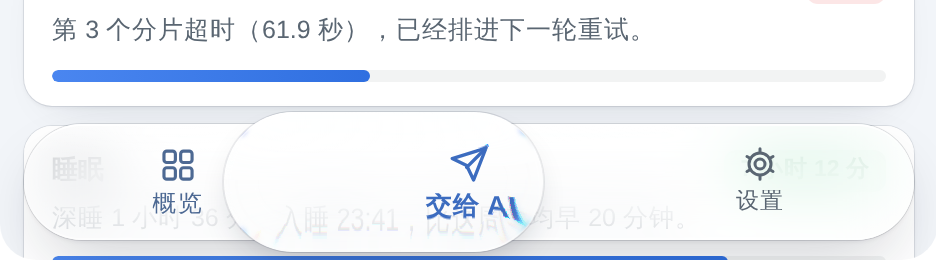
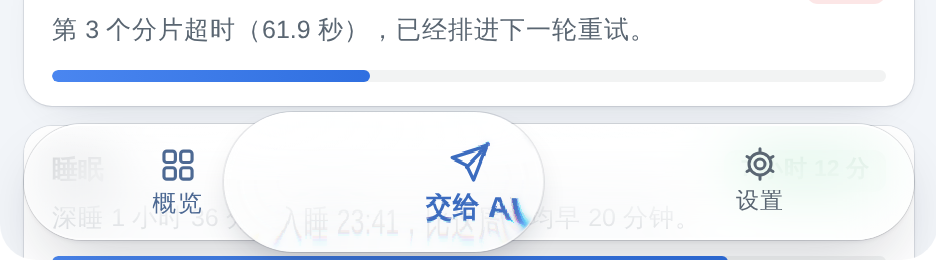
Moving lenses: convex profile to the centerline, no nested ellipses (v1.2.1)
The tab-bar lift lens and the hover lens still used the glass-plate
profile (bezel 0.6 of half-height for the lift lens, 12px for the hover
lens), leaving a flat middle: text there stayed unchanged while the rim
stretched it, which reads as two nested ellipses. ZeppBridge v3's map
generator uses exactly these plate numbers; shuding/liquid-glass scales
the whole area with smoothstep and has no flat plateau.

- Lift lens and hover lens use the convex lens profile (cubic, bezel to
  the centerline, depth 0.3 x bezel). Sampling depth is ~10.5px on the
  tab bar, so the bar's own edge is still skipped.
- Dispersion is blended in by 2m over the single-offset result, so the
  interior no longer gets red/cyan fringes on icons and text.
- The "use refraction" weight slope is max(12, 4 x depth): the original
  is used only where the offset is under a quarter pixel, removing the
  faint ghost ring deep lenses had.
- shoot.mjs: hold the tab bar and diff refraction on/off in the bands
  0.12-0.19h around the centerline (flat before, 5-11% bending now).
- Docs: principles 4.3/4.6/4.7, pitfalls #44, design-decisions round 15,
  design-spec params; version 1.2.1.

Claude-Session: https://claude.ai/code/session_01799g3ytQ6zM6MCw6832bw6

Changed region(s): [[0.4338, 0.7385, 0.5887, 0.8615], [0.4647, 0.5538, 0.5267, 0.6154]]

diff --git a/liquid-glass-ui/assets/liquid-glass.js b/liquid-glass-ui/assets/liquid-glass.js
@@ -1,5 +1,5 @@
 /*!
- * Liquid Glass UI —— 交互层 v1.2.0
+ * Liquid Glass UI —— 交互层 v1.2.1
  *
  * 只管「看着像玻璃、摸着像水」，不碰业务：不发请求、不改表单、不改页面元素的 class。
  * 删掉这个 <script>，页面照样能用——liquid-glass.css 里有不带脚本的退路。
@@ -54,7 +54,7 @@
    */
   function inert() {
     var self = {
-      version: '1.2.0', supported: false,
+      version: '1.2.1', supported: false,
       init: function () { return self; }, mode: function () { return 'off'; }, tier: function () { return 'l0'; },
       setMode: function () {}, refresh: function () {}, describe: function () { return ''; }, notify: function () {}
     };
@@ -414,7 +414,8 @@
   /**
    * 一块玻璃的滤镜。disp > 0 时红绿蓝三路分开位移（色散），否则一路。
    *   位移图：透明的 128 底 + 九宫格八块（贴图没加载出来时那一块是透明的，m = 0，用原图——绝不会整片错位）
-   *   → 位移（放大）→ 按 m^1.6 叠一层模糊 → 按 m 叠一层乳白 → 只在 m 明显的地方用（m × 12 截到 1）→ 按形状裁 → 垫在原图上面
+   *   → 位移（放大；色散按 2m 叠上）→ 按 m^1.6 叠一层模糊 → 按 m 叠一层乳白
+   *   → 只在位移超过 1/4 像素的地方用（m × max(12, 4 × 最外缘位移) 截到 1）→ 按形状裁 → 垫在原图上面
    * color-interpolation-filters 必须是 sRGB（缺省的线性 RGB 会把 128 算成 55 左右，整片往一边偏）；
    * 滤镜区域用缺省值（写 userSpaceOnUse 加 x/y 坐标原点会跑掉）。
    * 乳白的颜色走令牌 --lg-scatter：深色底上同样的白要淡一半，不然边上一圈发灰。
@@ -422,7 +423,7 @@
   function newFilter(disp) {
     var id = 'lgf-' + (++filterSeq), i;
     var f = svgEl('filter', { id: id, 'color-interpolation-filters': 'sRGB' });
-    var F = { id: id, node: f, disp: disp, parts: {}, dm: [], soft: null, veil: null, sig: '' };
+    var F = { id: id, node: f, disp: disp, parts: {}, dm: [], soft: null, veil: null, rim: null, sig: '' };
     function fe(name, attrs) { return f.appendChild(svgEl(name, attrs)); }
     function merge(result, ins) {
       var m = fe('feMerge', result ? { result: result } : {});
@@ -446,11 +447,18 @@
         fe('feColorMatrix', { 'in': 'd' + ch, type: 'matrix', values: ONLY[ch], result: 'c' + ch });
       }
       fe('feComposite', { 'in': 'cR', in2: 'cG', operator: 'arithmetic', k1: '0', k2: '1', k3: '1', k4: '0', result: 'rg' });
-      fe('feComposite', { 'in': 'rg', in2: 'cB', operator: 'arithmetic', k1: '0', k2: '1', k3: '1', k4: '0', result: 'sharp' });
+      fe('feComposite', { 'in': 'rg', in2: 'cB', operator: 'arithmetic', k1: '0', k2: '1', k3: '1', k4: '0', result: 'rgb' });
     } else {
       F.dm.push(fe('feDisplacementMap', { 'in': 'SourceGraphic', in2: 'map', scale: '0', xChannelSelector: 'R', yChannelSelector: 'G', result: 'sharp' }));
     }
     fe('feColorMatrix', { 'in': 'map', type: 'matrix', values: '0 0 0 0 0  0 0 0 0 0  0 0 0 0 0  0 0 1 0 0', result: 'm' });
+    if (disp) {
+      // 色散只在边上：三路分开的那份按 2m（截到 1）叠在绿路那份（三路同一位移）上面。里面位移不大时三路
+      // 各自取整到不同像素，字和图标的边会泛红泛青；透镜剖面一直伸到中线时这层彩边会铺满整片。
+      alpha('m', 'dw', { type: 'linear', slope: '2', intercept: '0' });
+      fe('feComposite', { 'in': 'rgb', in2: 'dw', operator: 'in', result: 'rgbIn' });
+      merge('sharp', ['dG', 'rgbIn']);
+    }
     F.soft = fe('feGaussianBlur', { 'in': 'sharp', stdDeviation: '0.5', result: 'soft' });
     alpha('m', 'bw', { type: 'gamma', amplitude: '1', exponent: '1.6', offset: '0' });
     fe('feComposite', { 'in': 'soft', in2: 'bw', operator: 'in', result: 'softIn' });
@@ -460,7 +468,7 @@
     F.veil = alpha('m', 'vw', { type: 'linear', slope: '0.05', intercept: '0' });
     fe('feComposite', { 'in': 'white', in2: 'vw', operator: 'in', result: 'veil' });
     merge('glowed', ['lensed', 'veil']);
-    alpha('m', 'rw', { type: 'linear', slope: '12', intercept: '0' });
+    F.rim = alpha('m', 'rw', { type: 'linear', slope: '12', intercept: '0' });
     fe('feComposite', { 'in': 'glowed', in2: 'rw', operator: 'in', result: 'rim' });
     fe('feComposite', { 'in': 'rim', in2: 'map', operator: 'in', result: 'shaped' });
     merge('', ['SourceGraphic', 'shaped']);
@@ -508,6 +516,9 @@
     } else { F.dm[0].setAttribute('scale', s.toFixed(2)); }
     F.soft.setAttribute('stdDeviation', Math.max(0.5, blur).toFixed(2));
     F.veil.setAttribute('slope', String(scat));
+    // 位移不到 1/4 像素就用原图（中间一个像素都不重采样）。固定 ×12 时，深的透镜在位移已近 1px 的地方还在
+    // 把原图和折射结果对半掺，掺到哪儿算哪儿——那一圈是看得出来的。
+    F.rim.setAttribute('slope', Math.max(12, 4 * depth).toFixed(1));
   }
 
   /**
@@ -973,8 +984,9 @@
     if (!L.F) { L.F = newFilter(0.06); L.ref.style.setProperty('--lg-ref', 'url(#' + L.F.id + ')'); }
     var w = Math.round(L.pw != null ? L.pw : L.w), h = Math.round(L.ph != null ? L.ph : L.h);   // 画出来的尺寸（可能被关进滚动范围时收过）
     if (w < 8 || h < 8) { return; }
-    var r = L.rad != null ? Math.min(L.rad, h / 2) : h / 2, bez = Math.min(12, h * 0.32);
-    setGeom(L.F, w, h, r, { bezel: bez, depth: bez * K, blur: Math.max(0.5, h * 0.02), disp: 0.06, scatter: 0.05 });
+    // 凸透镜剖面（斜面到中线、三次方）：会动的一小颗玻璃整块连续地弯，没有「外圈弯、内圈平」的接缝；字在正中，照样清楚
+    var r = L.rad != null ? Math.min(L.rad, h / 2) : h / 2;
+    setGeom(L.F, w, h, r, { bezel: h / 2, power: 3, blur: Math.max(0.5, h * 0.02), disp: 0.06, scatter: 0.05 });
   }
 
   /** 透镜底下是不是指针（不是键盘）：整行的指尖光只在指针在的时候亮 */
@@ -1318,9 +1330,10 @@
     Z.el.style.width = L.w + 'px';
     Z.el.style.height = L.h + 'px';
     Z.el.style.transform = 'translate3d(' + L.x.toFixed(2) + 'px,' + L.y.toFixed(2) + 'px,0)';
-    // 透镜：斜面占半高的六成，正中约四成高原样透出；色散比面板略重（字就在它底下）
-    var bez = 0.3 * L.h;
-    setGeom(Z.F, L.w, L.h, L.h / 2, { bezel: bez, depth: bez * K, blur: Math.max(0.5, L.h * 0.024), disp: 0.1, scatter: 0.06 });
+    // 透镜：凸透镜剖面——斜面一直到中线、三次方（data-lg-refract="lens" 同一条），整块连续地弯。
+    // 以前斜面只占半高的六成、正中四成原样透出，停在两项之间时边上的字被拉开、中间一块不动，看着是两个椭圆套在一起。
+    // 最外缘只往里取 0.3 × 半高（约 10px），整条导航条自己的边（离透镜的边约 6px）采不到，不会被放大成一道彩边；色散比面板略重
+    setGeom(Z.F, L.w, L.h, L.h / 2, { bezel: L.h / 2, power: 3, blur: Math.max(0.5, L.h * 0.024), disp: 0.1, scatter: 0.06 });
     Z.ref.style.opacity = clamp((up - 0.15) / 0.6, 0, 1).toFixed(3);
     // 边：从平胶囊的大小长到透镜的大小（浮起的回弹让它略大一点再收回），很快淡入
     var rx = w / L.w + (1 - w / L.w) * up, ry = h / L.h + (1 - h / L.h) * up;
@@ -1872,7 +1885,7 @@
   }
 
   var api = win.LiquidGlass = {
-    version: '1.2.0',
+    version: '1.2.1',
     /** true：真的在跑；false：服务端渲染、太老的浏览器拿到的替身 */
     supported: true,
     /** 换配置（同 window.LiquidGlassConfig 的选项），返回 LiquidGlass 本身 */

diff --git a/liquid-glass-ui/assets/liquid-glass.css b/liquid-glass-ui/assets/liquid-glass.css
@@ -1,5 +1,5 @@
 /*!
- * Liquid Glass UI —— 样式 v1.2.0
+ * Liquid Glass UI —— 样式 v1.2.1
  *
  * 一套照 Apple Liquid Glass 做的网页材质与组件：控制层（侧栏、页头胶囊、弹出层、工具条、提示）是玻璃，
  * 内容层（卡片、表格）是不透光的「实心厚玻璃」。动效与折射由同目录的 liquid-glass.js 驱动，

diff --git a/liquid-glass-ui/references/principles.md b/liquid-glass-ui/references/principles.md
@@ -101,7 +101,7 @@ D(s) = K · b · (1 − s/b)²      K = 0.45；s ≥ b 时 D = 0
 - **处处 1 + D′ > 0，不折叠**：同一段内容只出现一次，边上不会有重影和镜像。（`scripts/displacement_map.py --selftest` 验的就是这一条。）
 - 方向是外法线的反方向（往里）。圆角处法线从圆心指出去，所以圆角里的内容顺着圆弧弯。
 
-**凸透镜形态**（`data-lg-refract="lens"`，演示页那块可以拖的玻璃）：小块的玻璃按上面的「玻璃板」做，边宽只占半高的一半，
+**凸透镜形态**（`data-lg-refract="lens"`，演示页那块可以拖的玻璃；悬停透镜、分段开关浮起的透镜也用它）：小块的玻璃按上面的「玻璃板」做，边宽只占半高的一半，
 中间一大块是平的——外圈在弯、里面一块原样，看着像**两个椭圆叠在一起**，接缝就在边宽那一圈（放大率在那儿从 1 开始按定值往上爬，
 第一行字上半截被拉长、下半截原样）。凸透镜形态把斜面一直延伸到中线（b = 短边 / 2），剖面换成三次：
 
@@ -112,10 +112,18 @@ D(s) = (2K/3) · b · (1 − s/b)³      最外缘 1 + D′ = 1 − 0.9 = 0.1（
 三次剖面在中线处位移、放大率的增量、放大率的变化率都是 0——变形从中线平滑地长出来，整块是一个连续弯曲的凸透镜，
 中线附近一条带肉眼看不出变化（字照样清楚）。一般地剖面写成 m = (1 − s/b)^p、最外缘位移 (2K/p)·b，p = 2 是玻璃板，p = 3 是凸透镜。
 
-**为什么不把所有玻璃都换成三次剖面**：试过。三次剖面的取样深度浅（最外缘只往里取 0.3 × 边宽，平方是 0.45），
-分段开关浮起的透镜比那一行高两成、上下各伸出 6px 左右，三次剖面正好采到整条导航条自己的边线，把它放大成透镜上沿一道很扎眼的彩虹条；
-平方剖面往里取 9.5px，正好跳过那道边。面板、菜单这类大块玻璃中间本来就该是平的（iOS 26 也是边上弯、正中清楚）。
-所以只给「一小块独立的玻璃」用凸透镜，其余照旧。
+**哪些玻璃用凸透镜**：一小块独立的、会动的玻璃——可拖的水滴、悬停透镜、分段开关浮起的透镜。它们本身就是「一颗透镜」，
+中间留一块平的，眼睛立刻看出「外面一圈在弯、里面一块原样」的接缝（见 pitfalls 43、44）。面板、菜单这类大块玻璃照旧用玻璃板：
+中间本来就该是平的（iOS 26 的大玻璃也是边上弯、正中清楚），整块都弯反而看着晃。
+
+**边宽必须到中线**：三次剖面同样的边宽取样深度浅（最外缘往里 0.3 × 边宽，平方是 0.45）。试过「三次方、边宽还是半高的六成」：
+浮起的透镜最外缘只往里取 6px，正好采到整条导航条自己的边线（透镜比那一行高两成、上下各伸出 6px 左右），放大成透镜上沿一道彩虹条。
+边宽到中线以后最外缘往里取 0.15 × 高（导航条上约 10.5px），跳过那道边。
+
+**对照过的开源实现**：ZeppBridge v3 的 `scripts/assets/build-glass-lens-maps.py` 和本套件的玻璃板一模一样——平方剖面、
+浮起的透镜斜面占半高的六成、位移 0.45 × 斜面，正中约四成高是平的——同一条剖面，数学上同一条接缝，照抄它的参数去不掉这个问题。
+shuding/liquid-glass 的片元着色器是另一条路：整块按到边的距离用两层 `smoothStep` 把取样坐标往中心缩放，**没有平的一块**，
+变形从中心连续长到边上。凸透镜形态就是这个思路的位移贴图版：剖面到中线、在中线处平滑地从 0 长出来。
 
 **为什么不按斯涅尔定律算**（上一版的做法：凸超椭圆剖面 + 斯涅尔定律 + 恒定厚度，kube.io 那篇文章的思路）：
 算出来的位移全挤在最外两三个像素里，而且在那儿 D′ < −1——**贴图折叠了**。边宽 18、隆起 16、厚度 8 时，
@@ -159,20 +167,25 @@ D(s) = (2K/3) · b · (1 − s/b)³      最外缘 1 + D′ = 1 − 0.9 = 0.1（
   <!-- 放大：红绿蓝三路，红多折 8%、蓝少折 8%（色散），各留一个通道再加回一张 -->
   <feDisplacementMap in="SourceGraphic" in2="map" scale="S×1.08" xChannelSelector="R" yChannelSelector="G" result="dR"/>
   <feColorMatrix in="dR" values="只留红" result="cR"/>   …绿、蓝同理…
-  <feComposite operator="arithmetic" k2="1" k3="1" …/> ×2                       → sharp
+  <feComposite operator="arithmetic" k2="1" k3="1" …/> ×2                       → rgb
 
   <feColorMatrix in="map" values="B → 透明度" result="m"/>
+  <!-- 色散只在边上：rgb 按 2m（截到 1）叠在绿路那份（三路同一位移，dG）上面 -->
+  <feFuncA linear slope="2"/> + <feComposite in="rgb" operator="in"/> + <feMerge> dG + rgbIn </feMerge> → sharp
   <!-- 模糊：糊过的那份按 m^1.6 叠上去（集中在最外缘，不在里面留一圈发白的环） -->
   <feGaussianBlur in="sharp" result="soft"/>  + feFuncA gamma 1.6 + feComposite in   → lensed
   <!-- 散射：一层乳白按 m × 0.05 叠上去；颜色走令牌 --lg-scatter（深色底上淡一半） -->
   <feFlood style="flood-color: var(--lg-scatter)"/> + feFuncA linear + feComposite in → glowed
-  <!-- 只在 m 明显的地方用折射结果（m × 12 截到 1）；按形状裁；垫在原图上面 -->
+  <!-- 只在位移超过 1/4 像素的地方用折射结果（m × max(12, 4 × 最外缘位移) 截到 1）；按形状裁；垫在原图上面 -->
   <feComposite in="glowed" in2="rw" operator="in"/> → <feComposite in2="map" operator="in"/>
   <feMerge><feMergeNode in="SourceGraphic"/><feMergeNode in="shaped"/></feMerge>
 </filter>
 ```
 
-- **中间一个像素都不重采样**：位移不到最大值十二分之一的地方直接是原图。`scripts/shoot.mjs` 的折射校验把折射那一步换成
+- **中间一个像素都不重采样**：位移不到 1/4 像素的地方直接是原图（斜率 `max(12, 4 × 最外缘位移)`，`setGeom` 里按位移算）。
+  以前固定 ×12：深的透镜（最外缘 10px）在位移已近 1px 的地方还在把原图和折射结果对半掺，掺出一圈淡淡的重影。
+- **色散只在边上**：三路位移各自取整到不同的像素，位移不大的地方字和图标的边也会泛红泛青；剖面伸到中线时这层彩边铺满整块。
+  所以三路分开的那份只按 2m 叠上去，往里换成三路同一位移的那份。`scripts/shoot.mjs` 的折射校验把折射那一步换成
   `blur(0px)` 前后各拍一张，核对玻璃正中逐像素一样、外圈确实在弯。
 - **贴图缺了不会错位**：底是透明的 128，缺哪一块那一块 m = 0，用原图。
 - **边上的模糊顺带把锯齿抹掉**：位移滤镜是最近邻取样，边上拉开十倍，不糊一下就是一级级台阶。
@@ -190,11 +203,12 @@ D(s) = (2K/3) · b · (1 − s/b)³      最外缘 1 + D′ = 1 − 0.9 = 0.1（
 | 底部保存条 | 14 | 6 | 0.08 | 0.05 | 0.8 |
 | `data-lg-refract` 不给值 | 短边 × 0.2，夹在 10–24 | 0.45 × 边宽 | 0.08 | 0.05 | 边宽 × 0.06 |
 | `data-lg-refract="lens"`（凸透镜，三次剖面） | 短边 / 2（到中线） | 0.3 × 边宽 | 0.08 | 0.05 | 边宽 × 0.06 |
-| 悬停透镜（停稳时） | min(12, 高 × 0.32) | 0.45 × 边宽 | 0.06 | 0.05 | 高 × 0.02 |
-| 分段开关浮起的透镜（§8.1） | 高 × 0.3（半高的六成） | 0.45 × 边宽 | 0.1 | 0.06 | 高 × 0.024 |
+| 悬停透镜（停稳时，凸透镜） | 高 / 2（到中线） | 0.3 × 边宽 | 0.06 | 0.05 | 高 × 0.02 |
+| 分段开关浮起的透镜（§8.1，凸透镜） | 高 / 2（到中线） | 0.3 × 边宽 | 0.1 | 0.06 | 高 × 0.024 |
 
-最外缘位移缺省都是 0.45 × 边宽（就是 K）；面板越大，边越宽、折得越多；小控件边要窄，不然整颗都在弯、字看着晃。
-浮起的透镜斜面占半高的六成，正中约四成高原样透出——字就在它底下，色散也略重一点。
+玻璃板的最外缘位移缺省 0.45 × 边宽（就是 K），凸透镜 0.3 × 边宽（2K/3，最外缘一样放大约十倍）。面板越大，边越宽、折得越多；
+面板和菜单边要窄，不然整块都在弯、字看着晃。悬停透镜和浮起的透镜反过来：它们本身就是一颗透镜，整颗连续地弯、中线原样，
+字就在它底下被一点点放大；浮起的透镜色散也略重一点。
 
 ### 4.8 什么时候摆、什么时候撤
 

diff --git a/liquid-glass-ui/SKILL.md b/liquid-glass-ui/SKILL.md
@@ -55,7 +55,7 @@ description: >-
 1. 引入，按项目的形态选一种（`references/integration.md` §1）：
    - **普通页面 / 服务端模板**：把 `assets/liquid-glass.css`、`assets/liquid-glass.js` 拷进项目静态目录（保留文件头注释），
      `<head>` 里一个 `<link>`、一个 `<script>`——脚本放 `<head>` 时自己会在页面画出来之前写好档位，不用再加内联脚本。
-   - **有打包工具的前端工程**（Vite、webpack、Next.js、Nuxt）：`npm i github:decli/LiquidGlassUI#v1.2.0`（用户能访问这个仓库时），
+   - **有打包工具的前端工程**（Vite、webpack、Next.js、Nuxt）：`npm i github:decli/LiquidGlassUI#v1.2.1`（用户能访问这个仓库时），
      入口里 `import 'liquid-glass-ui/liquid-glass.css'` + `import LiquidGlass from 'liquid-glass-ui'`；访问不了就把 assets 下四个文件拷进项目，
      照样 import 相对路径。要改配置在 import 之后调 `LiquidGlass.init({ … })`。服务端渲染时 import 不会报错，不用 `typeof window` 判断。
 2. 不要在组件里初始化、也不要在路由切换后调什么：脚本用 `MutationObserver` 自己发现变化。`init()` 整页一份，只在启动时调。

diff --git a/liquid-glass-ui/references/integration.md b/liquid-glass-ui/references/integration.md
@@ -57,7 +57,7 @@
 ### B. npm / 打包工具（Vite、webpack、Next.js、Nuxt……）
 
 ```bash
-npm i github:decli/LiquidGlassUI#v1.2.0     # 装某个发布版；仓库是私有的，本机的 git 要能 clone 它
+npm i github:decli/LiquidGlassUI#v1.2.1     # 装某个发布版；仓库是私有的，本机的 git 要能 clone 它
 ```
 
 ```js
@@ -188,7 +188,7 @@ window.LiquidGlassConfig = {
 ## 6. 脚本接口与事件
 
 ```js
-LiquidGlass.version      // '1.2.0'
+LiquidGlass.version      // '1.2.1'
 LiquidGlass.supported    // true：真的在跑；false：服务端渲染、太老的浏览器拿到的替身（方法都在，什么都不做）
 LiquidGlass.init({ … })  // 换配置（第 5 节），返回 LiquidGlass 本身
 LiquidGlass.mode()       // 用户选的档：'auto' | 'full' | 'lite' | 'off'

diff --git a/README.md b/README.md
@@ -49,7 +49,7 @@
 **npm / 打包工具**（Vite、webpack、Next.js、Nuxt……；服务端渲染时 import 也不会报错）：
 
 ```bash
-npm i github:decli/LiquidGlassUI#v1.2.0
+npm i github:decli/LiquidGlassUI#v1.2.1
 ```
 
 ```js
